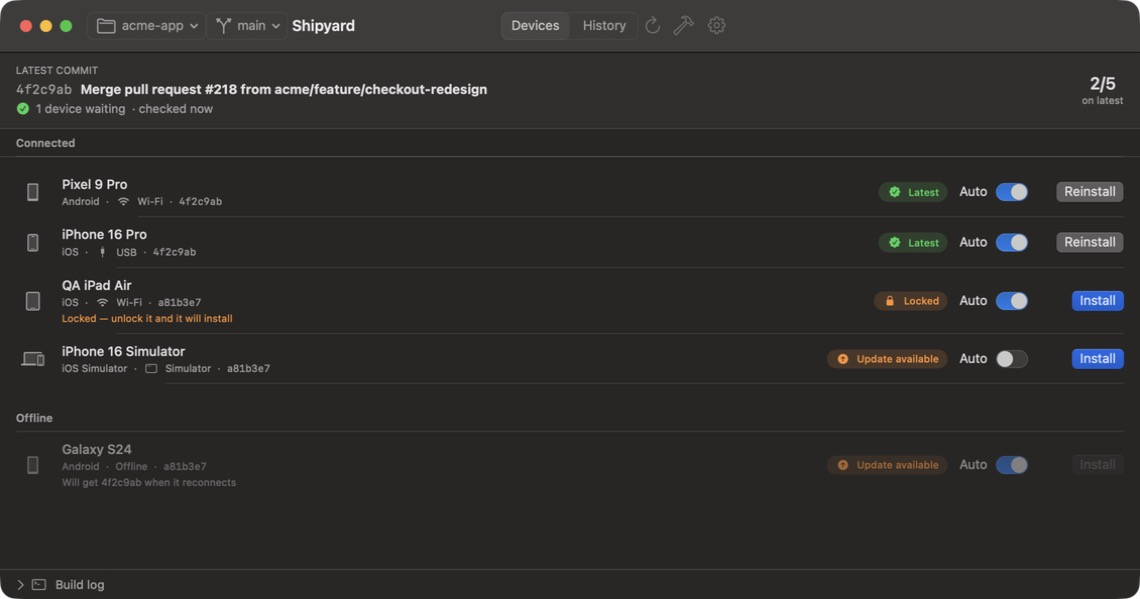
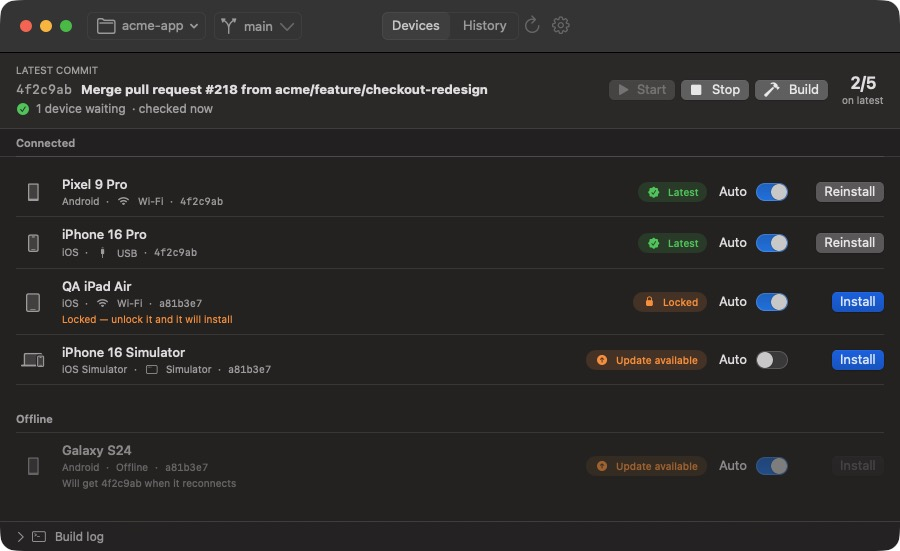
Update README screenshots for the new window
New captures of the device list and history with the Start, Stop and
Build buttons, plus one of the searchable branch picker. All taken in
demo mode with sample data.

diff --git a/README.md b/README.md
@@ -6,7 +6,7 @@ A Mac menu-bar app that watches a Git branch of your mobile app project and, eve
 
 Merge a pull request, pick up your phone, and the new build is already there. Works with Flutter, React Native, native iOS (Swift) and native Android (Kotlin) projects, and anything else you can build from a command line.
 
-![Shipyard's device list: each device shows its connection, installed commit and whether it has the latest build](docs/devices.jpg)
+![Shipyard's main window: Start, Stop and Build buttons beside the latest commit, and a list of devices showing each one's connection, installed commit and whether it has the latest build](docs/devices.jpg)
 
 ## What it does
 
@@ -67,7 +67,9 @@ Three buttons sit next to the latest commit:
 | **Stop** | Stops whatever is running and stops automatic builds until you press Start. Shipyard keeps checking for commits and devices. |
 | **Build** | Builds the latest commit now, without installing it. |
 
-Changing the branch never starts a build. Shipyard shows the new branch's latest commit and waits, with Start highlighted, until you press Start or Build. To install on one device, use its Install button.
+![The branch picker: a search field above a short list of branches, with the current one ticked](docs/branch-picker.jpg)
+
+Pick the branch from the toolbar; the list is searchable. Changing the branch never starts a build. Shipyard shows the new branch's latest commit and waits, with Start highlighted, until you press Start or Build. To install on one device, use its Install button.
 
 ## Project types
 
